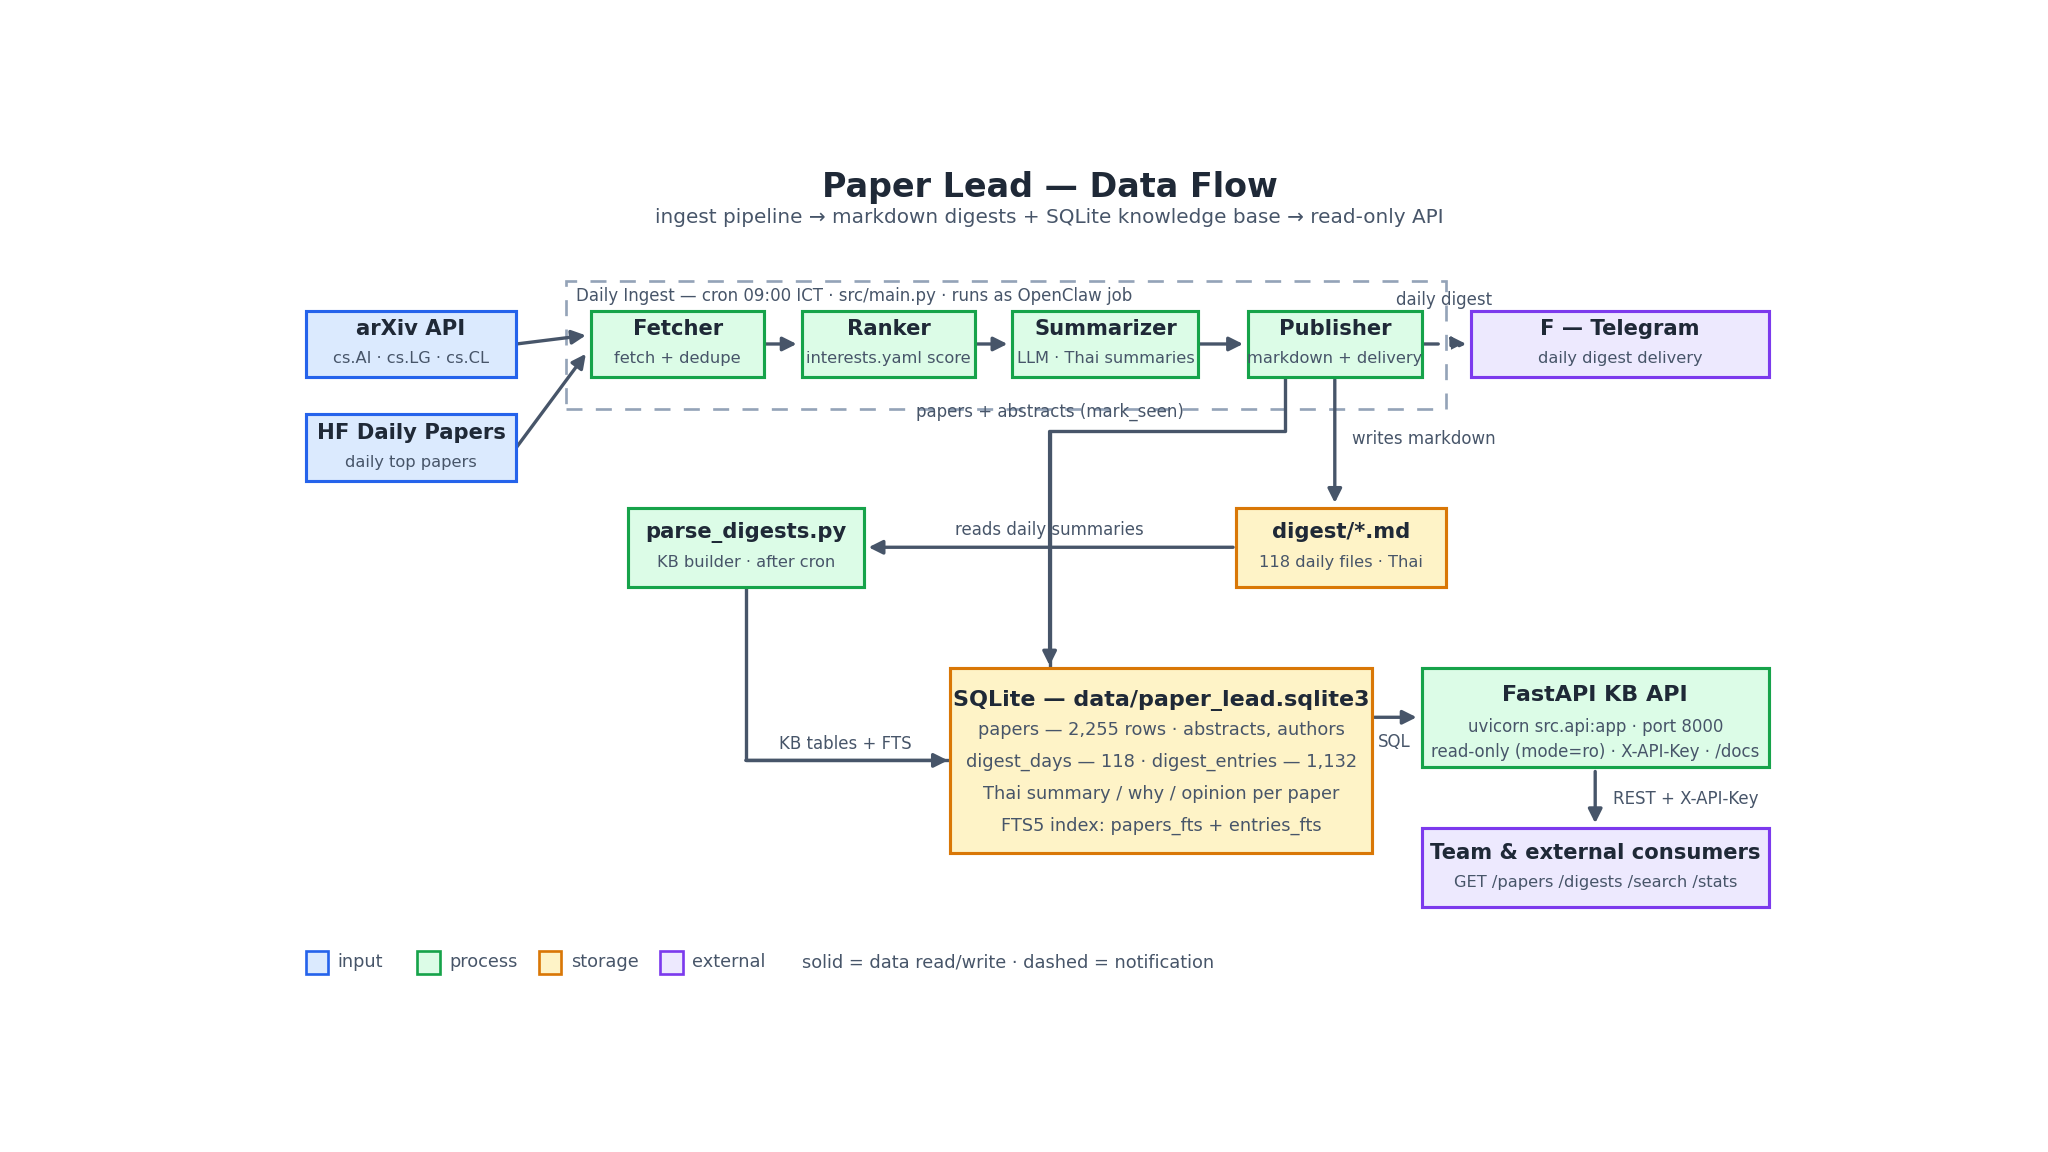
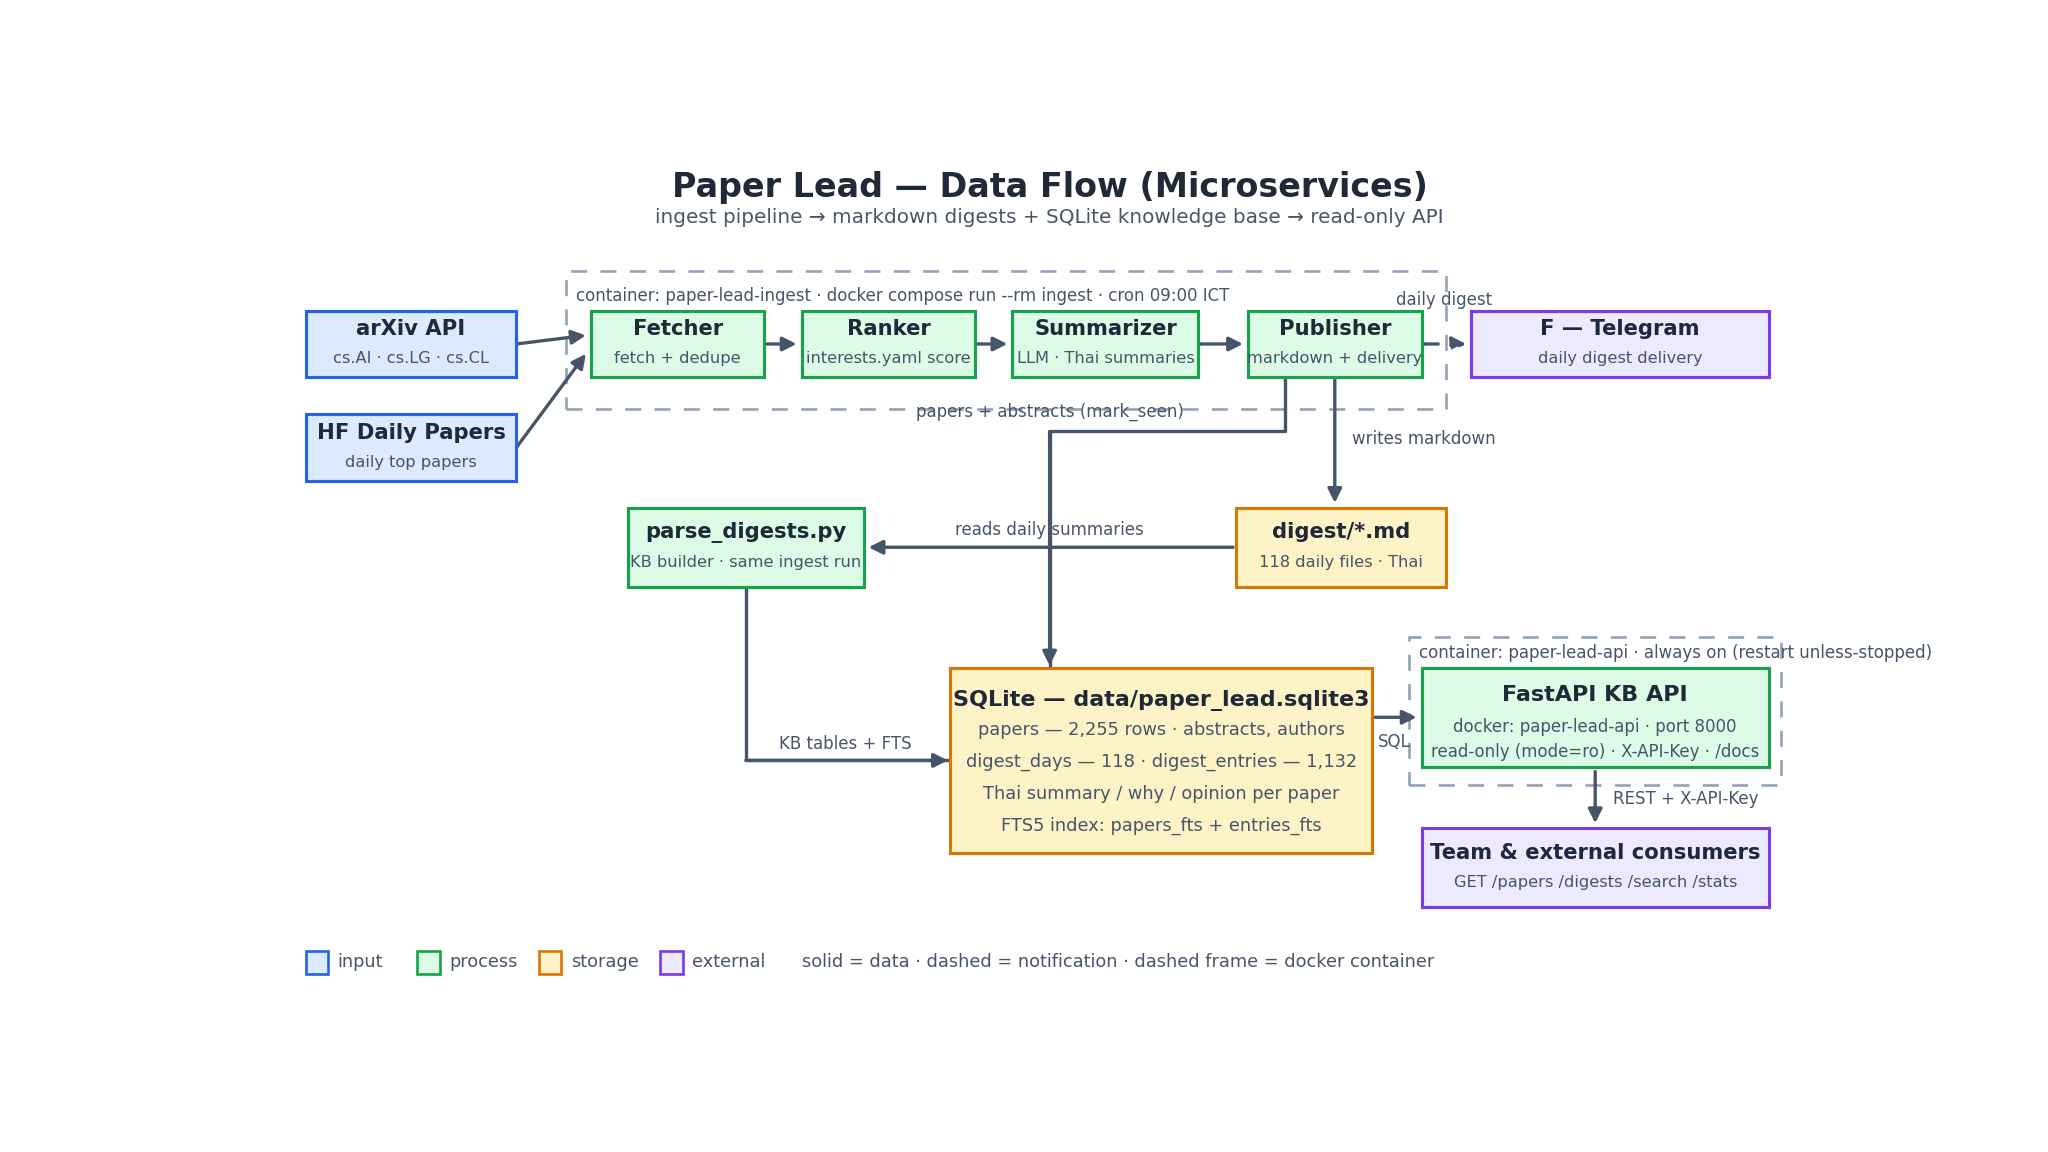
🐳 Microservices: dockerize api + ingest with shared image
- Dockerfile: python:3.11-slim, non-root uid 1001 (= host saiuser) so
  bind-mount writes in data/ + digest/ stay saiuser-owned on the host.
- docker-compose.yml: api (long-running, port 8000, healthcheck,
  restart unless-stopped) + ingest (profiles: tools, one-shot daily worker:
  digest pipeline + KB refresh in one run). Both services share ONE image
  (paper-lead:latest, built from api) — compose build skips profile-gated
  services, so a separate ingest image would silently go stale.
- dockerignore: build context = code only; state and secrets are bind mounts.
- src/main.py: --dry-run is now a true no-op (skips publish + mark_seen;
  previously it marked papers as seen, hiding them from the next real run).
- OpenClaw daily cron now runs 'docker compose run --rm ingest' with a host
  fallback if docker is down.
- README/AGENTS.md: microservices docs; docs/data-flow.* updated with
  container frames (api + ingest).

diff --git a/docs/data-flow.html b/docs/data-flow.html
@@ -51,8 +51,8 @@
   </g>
 
   <!-- ================= group: daily ingest ================= -->
-  <rect x="250" y="116" width="710" height="104" rx="12" fill="none" stroke="#94a3b8" stroke-width="1.5" stroke-dasharray="7 5"/>
-  <text x="258" y="134" font-size="12" fill="#64748b">Daily Ingest — cron 09:00 ICT · src/main.py · runs as OpenClaw job</text>
+  <rect x="250" y="108" width="710" height="112" rx="12" fill="none" stroke="#94a3b8" stroke-width="1.5" stroke-dasharray="7 5"/>
+  <text x="258" y="134" font-size="12" fill="#64748b">container: paper-lead-ingest · docker compose run --rm ingest · cron 09:00 ICT</text>
 
   <!-- ================= nodes ================= -->
   <!-- input: sources -->
@@ -99,7 +99,7 @@
   <g>
     <rect x="300" y="300" width="190" height="64" rx="10" fill="#dcfce7" stroke="#16a34a" stroke-width="1.5"/>
     <text x="395" y="325" text-anchor="middle" font-size="14" font-weight="600" fill="#1f2937">parse_digests.py</text>
-    <text x="395" y="345" text-anchor="middle" font-size="11.5" fill="#475569">KB builder · after cron</text>
+    <text x="395" y="345" text-anchor="middle" font-size="11.5" fill="#475569">KB builder · same ingest run</text>
   </g>
 
   <!-- storage: sqlite -->
@@ -112,11 +112,15 @@
     <text x="730" y="548" text-anchor="middle" font-size="12" fill="#475569">FTS5: papers_fts + entries_fts</text>
   </g>
 
+  <!-- api container frame (dashed) -->
+  <rect x="930" y="405" width="300" height="120" rx="12" fill="none" stroke="#94a3b8" stroke-width="1.5" stroke-dasharray="7 5"/>
+  <text x="938" y="420" font-size="12" fill="#64748b">container: paper-lead-api · always on (restart unless-stopped)</text>
+
   <!-- process: api -->
   <g>
     <rect x="940" y="430" width="280" height="80" rx="10" fill="#dcfce7" stroke="#16a34a" stroke-width="1.5"/>
     <text x="1080" y="456" text-anchor="middle" font-size="15" font-weight="600" fill="#1f2937">FastAPI KB API</text>
-    <text x="1080" y="476" text-anchor="middle" font-size="12" fill="#475569">uvicorn src.api:app · port 8000</text>
+    <text x="1080" y="476" text-anchor="middle" font-size="12" fill="#475569">docker: paper-lead-api · port 8000</text>
     <text x="1080" y="496" text-anchor="middle" font-size="12" fill="#475569">read-only (mode=ro) · X-API-Key · /docs</text>
   </g>
 
@@ -128,7 +132,7 @@
   </g>
 
   <!-- ================= title + legend ================= -->
-  <text x="640" y="42" text-anchor="middle" font-size="24" font-weight="700" fill="#1f2937">Paper Lead — Data Flow</text>
+  <text x="640" y="42" text-anchor="middle" font-size="24" font-weight="700" fill="#1f2937">Paper Lead — Data Flow (Microservices)</text>
   <text x="640" y="66" text-anchor="middle" font-size="13" fill="#64748b">ingest pipeline → markdown digests + SQLite knowledge base → read-only API</text>
 
   <g font-size="12" fill="#475569">
@@ -140,7 +144,7 @@
     <text x="254" y="674">storage</text>
     <rect x="326" y="660" width="18" height="18" rx="4" fill="#ede9fe" stroke="#7c3aed"/>
     <text x="352" y="674">external</text>
-    <text x="440" y="674">solid = data read/write · dashed = notification</text>
+    <text x="440" y="674">solid = data · dashed = notification · dashed frame = docker container</text>
   </g>
 </svg>
 </body>

diff --git a/src/main.py b/src/main.py
@@ -194,7 +194,10 @@ def main():
         print(result.digest)
         print("=" * 60)
         print(f"Stats: {json.dumps(result.stats, indent=2)}")
-        publish_success = True  # dry-run counts as success
+        # Dry run must be a true no-op: no publish, no mark_seen, no DB
+        # writes — the same papers stay visible to the next real run.
+        logger.info("Dry run: skipping publish + mark_seen (DB unchanged)")
+        return
     else:
         pub_config = {
             "delivery": config.delivery,

diff --git a/AGENTS.md b/AGENTS.md
@@ -7,29 +7,35 @@ Full pipeline: `README.md`. Track A/B interface contract: `docs/SPEC.md`, `docs/
 ## Run it
 
 ```bash
-python3 -m src.main --config config.yaml --dry-run   # test, prints digest
+# Host (legacy)
+python3 -m src.main --config config.yaml --dry-run   # test, prints digest (true no-op since 2026-11-19)
 python3 -m src.main --config config.yaml              # real run, writes + delivers
+
+# Docker microservices (preferred)
+docker compose up -d api           # KB API — port 8000, restart unless-stopped
+docker compose run --rm ingest     # daily digest + KB refresh — one-shot container
 ```
 
 Must run as `-m src.main` from repo root (`python src/main.py` fails: `ModuleNotFoundError: src`).
+Containers use `python -m ...` with WORKDIR /app (see `Dockerfile`).
 
 ## Config
 
 - `config.yaml` — real config, **gitignored**, edit this one (not `config.example.yaml`)
 - `interests.yaml` — ranker keywords
-- `.env` — `GATEWAY_API_KEY`, optional `SLACK_WEBHOOK`/`DISCORD_WEBHOOK`
+- `.env` — `GATEWAY_API_KEY`, `KB_API_KEY` (KB API auth), optional `SLACK_WEBHOOK`/`DISCORD_WEBHOOK`
 - LLM model/fallbacks live under `config.yaml`'s `llm:` key — change model name there, no code edit needed (`src/summarizer.py` just forwards `llm_config["model"]`)
 
 ## Known gotchas
 
-- `--dry-run` still calls `db.mark_seen()` for every summarized paper (see `src/main.py`,
-  `publish_success = True` is set unconditionally on dry-run). It is **not** a no-op against
-  `data/paper_lead.sqlite3` despite the name — a "test" run will make those papers invisible
-  to the next real run.
-- `requirements.txt` is missing `beautifulsoup4`, which `src/fetcher.py` imports for HF
-  Daily Papers scraping. Install it manually if setting up fresh.
-- `config.json.bak` and `src/digest/2026-06-18.md` are dead files (leftover from the
-  JSON→YAML migration and a stray committed output) — not read by any code.
+- `--dry-run` **used to** mark papers as seen (old trap; fixed 2026-11-19 — it
+  now skips publish + mark_seen entirely, safe to test any day).
+- Docker image runs as uid 1001 (= host `saiuser`) so bind-mount writes in
+  `data/` + `digest/` stay saiuser-owned on the host.
+- Containers are UTC — digest filenames use UTC dates (same as old host
+  behavior; OpenClaw cron fires 09:00 ICT = 02:00 UTC).
+- KB API opens sqlite `mode=ro` per request; the only DB writer is the ingest
+  run (docker `ingest` or fallback host run).
 
 ## Tests
 
@@ -44,11 +50,12 @@ pytest tests/
 
 - `src/parse_digests.py` — parses `digest/*.md` into `digest_days` + `digest_entries`
   (+ `entries_fts`, `papers_fts`). Idempotent (delete+insert per date). Run as
-  `python3 -m src.parse_digests` (repo root). The OpenClaw daily cron runs it
-  automatically after each digest.
-- `src/api.py` — read-only FastAPI (uvicorn `src.api:app`, port 8000).
-  Key: `.env` `KB_API_KEY` (X-API-Key header). Not a systemd service — start
-  by hand or add a supervisor if it should survive reboots.
+  `python3 -m src.parse_digests` (repo root). The OpenClaw daily cron (09:00 ICT)
+  runs `docker compose run --rm ingest` = digest pipeline + KB refresh in one
+  container run (host fallback if docker is down).
+- `src/api.py` — read-only FastAPI. Runs as docker container `paper-lead-api`
+  (port 8000, `restart: unless-stopped`, survives reboot; docker.service enabled).
+  Key: `.env` `KB_API_KEY` (X-API-Key header).
 - Tables `digest_days`/`digest_entries`/FTS are KB-owned; the cron digest job
   is the only writer of `papers`. Parser writes KB tables right after.
 - Old-format digests handled: emoji section headers, `##` headers, bullet

diff --git a/README.md b/README.md
@@ -108,6 +108,26 @@ so the API can never corrupt the ingest pipeline.
 
 Data flow diagram: `docs/data-flow.html` (SVG in page) / `docs/data-flow.png`.
 
+## Microservices (Docker)
+
+One image, two services (`docker-compose.yml`):
+
+- **api** — long-running KB API: `docker compose up -d api` (port 8000,
+  healthcheck, `restart: unless-stopped` — survives reboots, docker is enabled)
+- **ingest** — one-shot daily worker: `docker compose run --rm ingest`
+  (digest pipeline + KB refresh in one run)
+
+`data/` and `digest/` are host bind mounts, so all state stays on the host
+and container files land as `saiuser`-owned (image runs as uid 1001).
+The OpenClaw daily cron (09:00 ICT) runs the ingest service and reports to
+Telegram; if docker is down it falls back to a host run.
+
+```bash
+docker compose build          # build image
+docker compose up -d api      # serve KB API
+docker compose run --rm ingest  # manual daily run
+```
+
 ## License
 
 MIT
